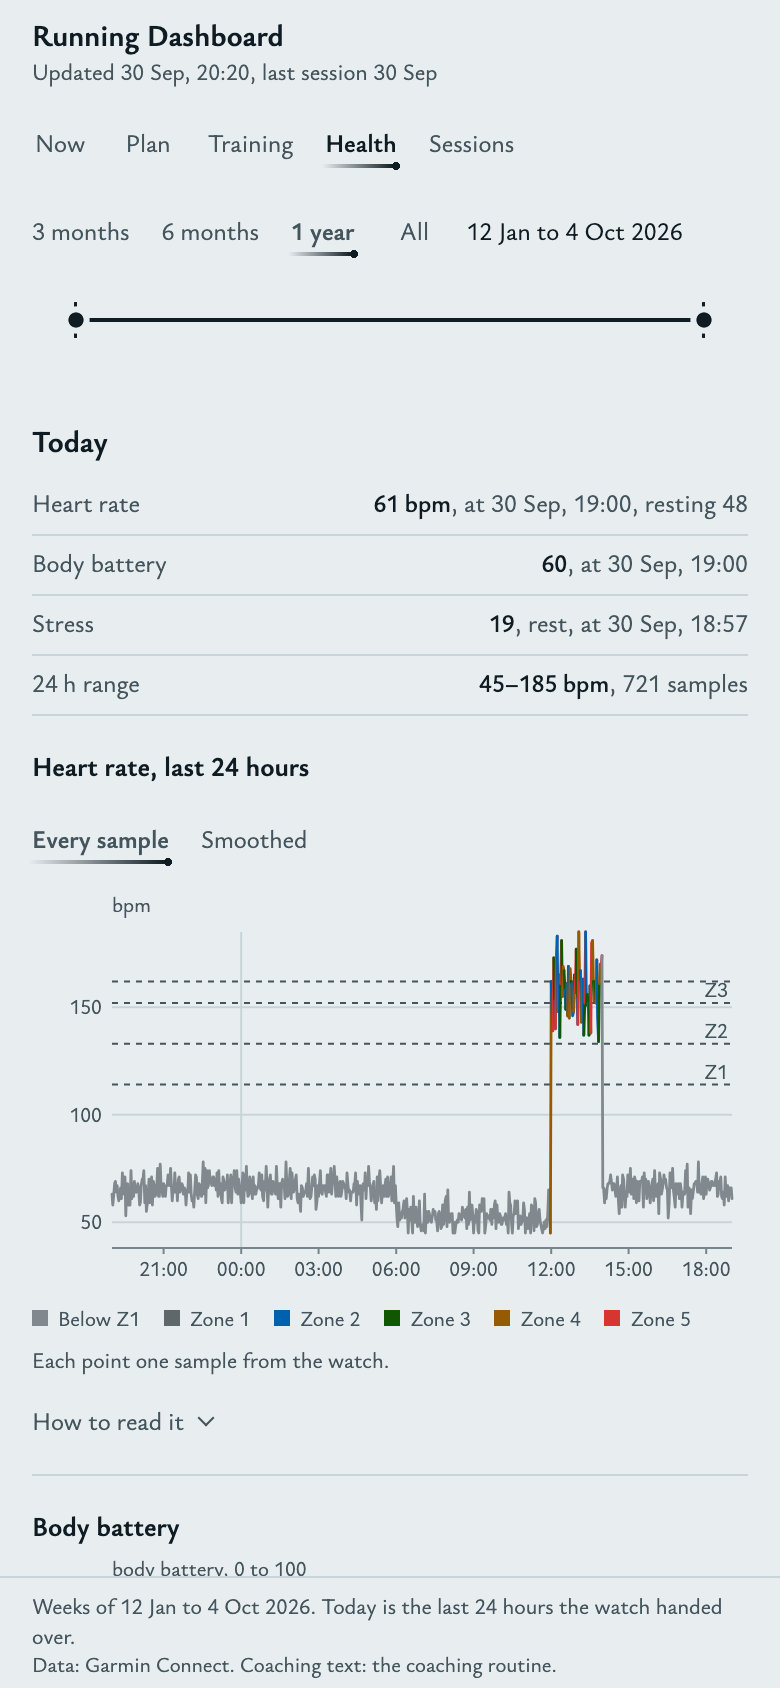
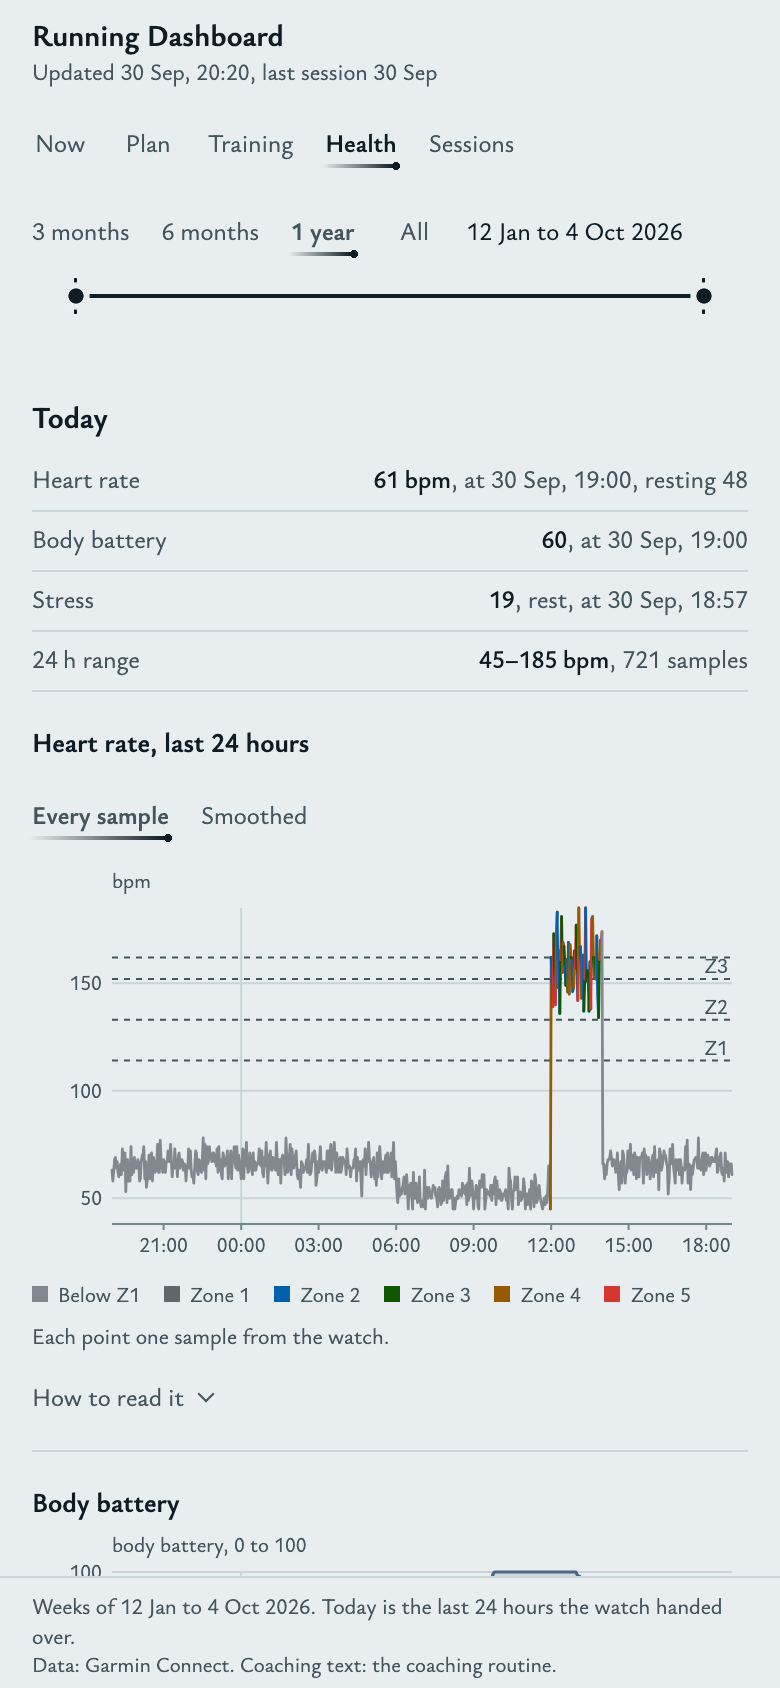
Running Dashboard: the slider row 32 px with the track 10 px down, the fixed block 12 px shorter

diff --git a/running-dashboard/style.css b/running-dashboard/style.css
@@ -113,8 +113,8 @@ button, select { font: inherit; color: inherit; background: none; border: 0; pad
    of ink, a tracer head at each end of it. The inputs are the 44 × 44 hits and the accessible sliders,
    drawn at opacity 0, so a phone paints nothing of its own behind a thumb (the owner saw a plate,
    2026-10-03); the heads are the fill's ::before and ::after, 10 px while their thumb is pressed */
-.dual { position: relative; height: 44px; }
-.dual-track { position: absolute; left: 22px; right: 22px; top: 21.5px; height: 1px; background: var(--line-strong); pointer-events: none; }
+.dual { position: relative; height: 32px; }   /* 32 px with the track 10 px down: the heads sit close under the window words and the block is 12 px shorter (the owner, 2026-10-03); the inputs keep their 44 px hits and overhang the content's inert first line */
+.dual-track { position: absolute; left: 22px; right: 22px; top: 9.5px; height: 1px; background: var(--line-strong); pointer-events: none; }
 .dual-fill { position: absolute; top: -0.5px; height: 2px; background: var(--ink); }
 .dual-fill::before, .dual-fill::after { content: ''; position: absolute; top: -8px; left: -9px; width: 18px; height: 18px; border-radius: 50%; background: var(--thumb); }
 .dual-fill::after { left: auto; right: -9px; }

diff --git a/running-dashboard/ART.md b/running-dashboard/ART.md
@@ -488,10 +488,10 @@ the table, the Block, this week's figure and the verdict.
   scrolls beneath them (the owner: "The sliders should be locked on top for relevant pages", 2026-10-03).
   They are one block at the top of the pane's scroller, `position: sticky; top: 0` on `--page` (z-index 4:
   over a chart's card, under a notice), in the flow, so at rest the pane's content begins at its foot and
-  nothing is covered: 136 px on Training and Sessions, 88 on Health (`shoot.mjs` measures the content's
+  nothing is covered: 124 px on Training and Sessions, 76 on Health (`shoot.mjs` measures the content's
   top at the block's height). It counts against the plate as the header does: of the 694 px pane at
-  390 × 844 it leaves 558 at rest and 606 once its first row has tucked; on a phone on its side, 184 and
-  232 of 320. Its rows, from the top:
+  390 × 844 it leaves 570 at rest and 618 once its first row has tucked; on a phone on its side, 196 and
+  244 of 320. Its rows, from the top:
   - *Sport and equipment*: native `<select>`s set as word keys: 12.5 px `--ink` at 560 in a 1 px
     `--line-strong` frame, 6 px radius, 44 px tall, no chevron glyph and no fill, 4 px under the tabs.
     Named `Activity type` and `Equipment`. Whether iOS zooms the page when one is focused (its text is
@@ -516,8 +516,11 @@ the table, the Block, this week's figure and the verdict.
     sliders, so the phone paints nothing of its own there, and the heads are the fill's `::before` and
     `::after`, round, ringed in a 2 px `--ink` circle on a key's focus only. `shoot.mjs` finds nothing
     but the page in each thumb's 44 × 44 box outside its head and the track (0 of 5 616 samples) and each
-    hit 44 × 44. Named `Start of window` and `End of window`. The route's distance window on Sessions
-    is drawn the same way.
+    hit 44 × 44. Named `Start of window` and `End of window`. **The row is 32 px with the track 10 px
+    down** (the owner: "moved slightly upwards to make it take up less space", 2026-10-03), so the heads
+    sit close under the window words and the block is 12 px shorter than with a 44 px row; the inputs
+    keep their 44 px and overhang the content's first line, a heading, which no tap is meant for. The
+    route's distance window on Sessions is drawn the same way.
 - **Sections, not cards.** Each chart is a section on `--page`: a 1 px `--line` rule above it (none
   above the first), 16 px padding top; its heading at 13.5 px 650 in sentence case. A pane's group
   heading (`Running`, `Load`, `Heart` on Training; `Today`, `Recovery and trends` on Health) is an `h2`

diff --git a/HOUSE.md b/HOUSE.md
@@ -1244,7 +1244,7 @@ figures into its `ART.md`.
 | Shelf Atlas | 1 980 340 (after its pass, the data follow-up and the family fixes of 2026-10-02) | 2 413 130 | 184 002 of 200 000 (the lead's ruling, plan 0011 D15) | 40 075 |
 | World Oil & Gas | 2 147 335 (after its pass and the family fixes of 2026-10-02) | 2 622 870 | 199 975 of 200 000 (the house's cap, plan 0011 D17 standing; `app.js` 118 407 of its own 150 000) | 40 075 |
 | Snug Kart | 619 403 (after its pass and the family fixes of 2026-10-02) | 720 806 | 242 778 of 244 000 (the lead's ruling, plan 0011 D20; held at 220 070 before it) | 40 075 |
-| Running Dashboard | 1 080 837 (after its pass, the data follow-up, the family fixes and the owner's six of 2026-10-03) | 1 340 193 | 251 559 of 252 000 (the lead's rulings, plan 0011 D23–D24 and D32 for the owner's six; held at 236 521 before them) | 41 291 |
+| Running Dashboard | 1 080 925 (after its pass, the data follow-up, the family fixes and the owner's six and seventh of 2026-10-03) | 1 340 193 | 251 775 of 252 000 (the lead's rulings, plan 0011 D23–D24 and D32 for the owner's six; held at 236 521 before them) | 41 291 |
 | Finances | about 129 800 (after its pass; `ART.md`'s own size moves the last digits) | 131 000 (the lead's ruling, plan 0011 D27; 125 304 by D5's formula) | 123 733 of 200 000 | 40 075 |
 | World News | 86 993 (after its pass and the data follow-up of 2026-10-02; `ART.md`'s own size moves the last digits) | 88 000 (the lead's ruling, plan 0011 D30; 72 140 by D5's formula) | 46 119 of 200 000 | 40 075 |
 | Outdoor Window | 29 939 | 75 257 | 50 637 | 0 |

diff --git a/running-dashboard/tools/DECISIONS.md b/running-dashboard/tools/DECISIONS.md
@@ -1973,3 +1973,15 @@ On an iPhone with iOS 18 and one with iOS 26:
   VoiceOver label first;
 - **Plan's running chart**: a tap's card over the chart's neighbors, the table's sideways scroll, the race's
   name on the owner's own plan.
+
+## The owner's seventh (2026-10-03)
+
+Seeing the six on the phone, the owner asked for the slider "moved slightly upwards to make it take up
+less space". The lead made the change: `.dual` is 32 px tall with its track at 9.5 px (it was 44 with
+the track at 21.5), so the heads sit 32 px under the window words' center instead of 43.5 and the fixed
+block is 12 px shorter on every pane that has it (Training and Sessions 124 px, Health 76). The range
+inputs keep their 44 px hits and overhang the content's first line by 12 px; that line is a heading on
+every pane, so no tap is meant for it, and the block's z-index keeps the thumbs on top. The words row
+above keeps its 44 px, so nothing overlaps upward. `shoot.mjs` measures the content's top at the block's
+foot, so its checks follow the new height without a change; `ART.md` §3 carries the new figures. Code
+251 775 B of 252 000 after the stylesheet's comment.
